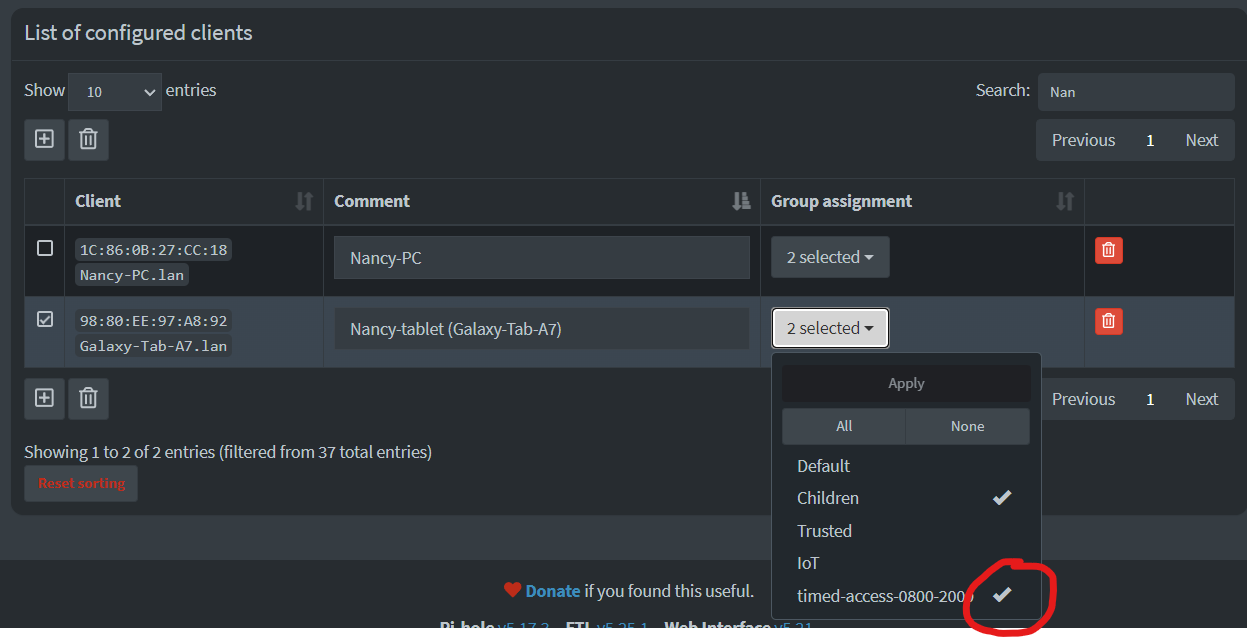
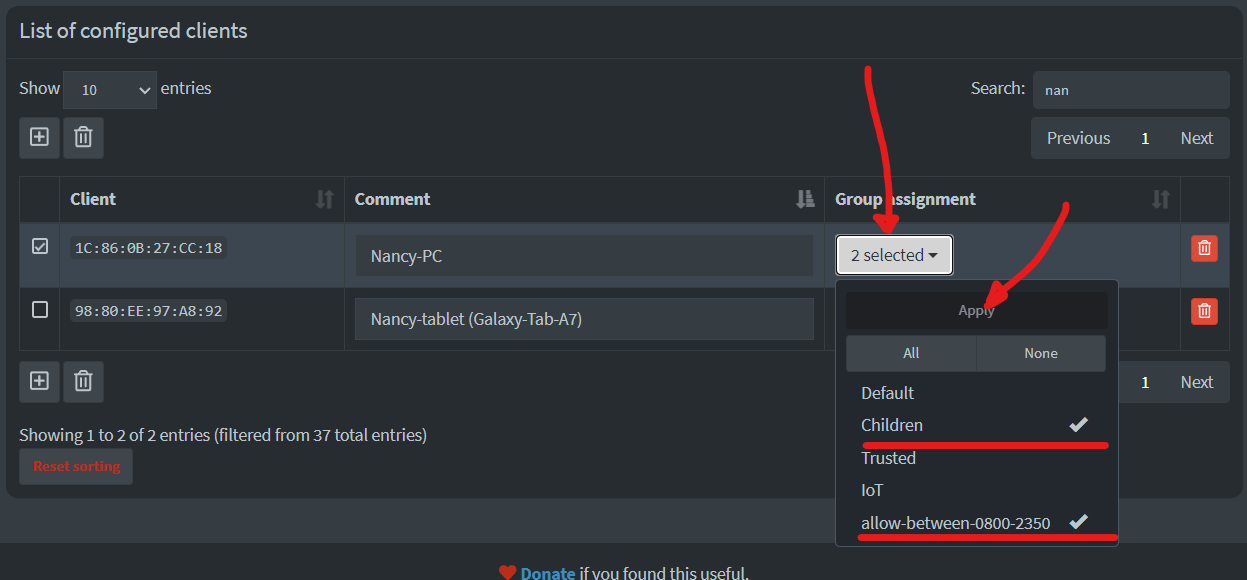
version 1, seems to be working... now going to live-test it for a few days.

diff --git a/toggle.php b/toggle.php
@@ -1,0 +1,128 @@
+<?php
+
+// Change this to wherever you have pihole installed (`locate scripts/pi-hole/php/auth.php` will help you find that)
+$path = '/var/www/html/admin/scripts/pi-hole/php/';
+
+// The group and domainlist to match (these are the defaults described in the `README.md`)
+$group_match='allow-between-';
+$domainlist_match='block-everything';
+
+// default params (will be overwritten)
+$group_id=null;
+$domainlist_id=null;
+$time_from = null;
+$time_until = null;
+
+// Establish the database connection
+require_once $path.'database.php';
+
+// Pi-hole database handler
+$GRAVITYDB = getGravityDBFilename();
+$db = SQLite3_connect($GRAVITYDB, SQLITE3_OPEN_READWRITE);
+
+// Get the group (allow 08:00 to 20:00)
+$query = $db->query('SELECT * FROM "group";');
+while (($res = $query->fetchArray(SQLITE3_ASSOC)) !== false) {
+    if (preg_match('#^'.$group_match.'#', $res['name'])) {
+        $group_id=$res['id'];
+        if (preg_match('#'.$group_match.'([0-9]{4})-([0-9]{4})#', $res['name'], $hours)) {
+            $time_from=intval($hours[1]);
+            $time_until=intval($hours[2]);
+        }
+    }
+}
+
+// Get the domain-block (called `block-everything`)
+$query = $db->query('SELECT * FROM "domainlist";');
+while (($res = $query->fetchArray(SQLITE3_ASSOC)) !== false) {
+    if (preg_match('#'.$domainlist_match.'#', $res['comment'])) {
+        $domainlist_id=$res['id'];
+    }
+}
+
+// do we have everything we need?
+if (!isset($time_from) or empty($time_from)) die('no from time found.');
+if (!isset($time_until) or empty($time_until)) die('no from time found.');
+if (!isset($group_id) or empty($group_id)) die('no group found.');
+if (!isset($domainlist_id) or empty($domainlist_id)) die('no domainlist found.');
+
+// Should we be allowing this DNS at this time?
+$allow_dns = false;
+
+// what is the time now (HHMM i.e. 2359)?
+$now = intval(date('Hi'));
+
+// should we be allowing or blocking for this time?
+if ($now >= $time_from and $now < $time_until) $allow_dns = true;
+
+// do we currently have the block in place?
+$block_dns = false;
+
+$block_query = $db->query('SELECT * FROM domainlist_by_group WHERE domainlist_id = '.$domainlist_id.' AND group_id='.$group_id.';');
+
+if (!$block_query) {
+    throw new Exception('Error while querying gravity\'s client_by_group table: '.$db->lastErrorMsg());
+}
+
+$block_dns = $block_query->fetchArray() !== false ? true : false;
+
+// remove block if it exists and it shouldn't.
+if ($allow_dns == true and $block_dns == true) {
+    log_message('Removing block for domainlist id '.$domainlist_id.' from group id '.$group_id);
+    restart_dnsresolver();
+    $db->query('DELETE FROM domainlist_by_group WHERE domainlist_id = '.$domainlist_id.' AND group_id='.$group_id.';');
+}
+elseif ($allow_dns == false and $block_dns == false) {
+    log_message('Applying block for domainlist id '.$domainlist_id.' to group id '.$group_id);
+    restart_dnsresolver();
+    $db->query('INSERT INTO "domainlist_by_group" (domainlist_id,group_id) VALUES ('.$domainlist_id.', '.$group_id.');');
+}
+else{
+    $message = 'Nothing to do - '.$now."/".$time_from."/".$time_until;
+
+    if ($allow_dns == true) {
+        $message .= " should be ALLOWING";
+    }
+    else{
+        $message .= " should be BLOCKING";
+    }
+    
+    if ($block_dns == true) {
+        $message .= " are be BLOCKING";
+    }
+    else{
+        $message .= " are be ALLOWING";
+    }
+
+    log_message($message);
+}
+
+/**
+ * Log a message to the log file
+ * 
+ * @param string $message
+ * @return void
+ */
+function log_message($message) {
+    // default location of the log file
+    $log_file = '/tmp/pihole-timed-access.log';
+
+    // create the log file if it doesn't exist
+    if (!file_exists($log_file)) touch($log_file);
+
+    // add the message to the log file with a timestamp prefix
+    $timestamp = '['.date('Y-m-d H:i:s').'] ';
+    file_put_contents($log_file, $timestamp.$message."\n", FILE_APPEND);
+}
+
+/** 
+ * Restart the DNS resolver
+ * 
+ * @param void
+ * @return void
+ */
+function restart_dnsresolver()
+{
+    shell_exec('pihole arpflush');
+    shell_exec('pihole restartdns');
+}

diff --git a/README.md b/README.md
@@ -14,35 +14,34 @@ An addon for Pi-hole to only permit access (resolve DNS queries) for clients bet
 
 ## Pi-hole installed on Ubuntu/Debian (not in Docker)
 
-Edit permissions so you're allowed to manage the sqllite database:
-
 ```bash
-sudo usermod -G pihole $USER
+sudo su -
+
+echo "" >> /var/spool/cron/crontabs/root
+echo "# Pihole toggle allow traffic to timed access devices every ten minutes" >> /var/spool/cron/crontabs/root
+echo "*/10 * * * * /usr/bin/php /PATH-TO-REPO/toggle.php" >> /var/spool/cron/crontabs/root
+echo "" >> /var/spool/cron/crontabs/root
 ```
-
-- CRON
-
 
 ## Pi-hole installed using Docker
 
 ...
 
-
 # How to use
 
-Once the installation is complete, go to your Pi-hole control panel and click on `Groups`. Create a new group with the name `timed-access-0800-2000` (which means allow access between 8AM and 8PM), feel free to change these times to your requirements, or add multiple (the group name MUST be formatted as shown exactly).
+Once the installation is complete, go to your Pi-hole control panel and click on `Groups`. Create a new group with the name `allow-between-0800-2000` (which means allow access between 8AM and 8PM), feel free to change these times to your requirements, or add multiple (the group name MUST be formatted as shown exactly).
 
 ![Group](https://github.com/harrywebster/pi-hole-addon-timed-access/blob/main/screenshot/group.png?raw=true)
 
-Now on the Pi-hole control panel click on `Adlists` and add a new adlist with the address `*.*` and comment `block-everything` (again this name must be exact).
+Now on the Pi-hole control panel click on `Domains`, select the `Regex filter` tab and under `Regular Expression` type `(\.|^)`, and for `Comment` type `block-everything` (this comment and regular expression must be exact).
 
-![Adlist](https://github.com/harrywebster/pi-hole-addon-timed-access/blob/main/screenshot/adlist.png?raw=true)
+![Domain](https://github.com/harrywebster/pi-hole-addon-timed-access/blob/main/screenshot/domain.png?raw=true)
 
-Finally click on `Clients`, find the client you'd like to restrict access to (if they're not listed then you'll need to add them by MAC address a the top of this page)... click on `Group assignment` next to the client and ensure `timed-access-0800-2000` is checked.
+Finally click on `Clients`, find the client you'd like to restrict access to (if they're not listed then you'll need to add them by MAC address a the top of this page)... click on `Group assignment` next to the client and ensure `allow-between-0800-2000` is checked.
 
 ![Client](https://github.com/harrywebster/pi-hole-addon-timed-access/blob/main/screenshot/client.png?raw=true)
 
-That's it! The CRON job you've configured will now automatically toggle the access for this client on/off. You can assign as many groups and clients to this as you like and changing the times in the group will automatically be picked up by the script running it the background.
+That's it! The CRON job you've configured will now automatically toggle the access for this client on/off checking every ten minutes for a change. You can assign as many groups and clients to this as you like and changing the times in the group will automatically be picked up by the script running it the background.
 
 ## What is Pi-Hole
 
@@ -54,14 +53,20 @@ Read more about [Pi-hole here](https://github.com/pi-hole/pi-hole).
 
 The default location for log file is `/tmp/pihole-timed-access.log`, so look here first.
 
+For example:
+```log
+[2024-03-05 23:00:01] Nothing to do - 2300/800/2000 should be BLOCKING are be BLOCKING
+[2024-03-05 23:05:25] Removing block for domainlist id 5 from group id 4
+[2024-03-05 23:10:02] Nothing to do - 2310/800/2000 should be ALLOWING are be ALLOWING
+```
+
 ## Blocklist Project
 
 Additional helpful Adlists to enable can be found here, this is a great addition to further secure your network for parental control.
 
 # Notes
 
-- The `toggle.php` script must have write permission to sqllite dB or run as root.
-- The `Adlist` and `Group` must be named exactly right.
+... 
 
 # References
 
